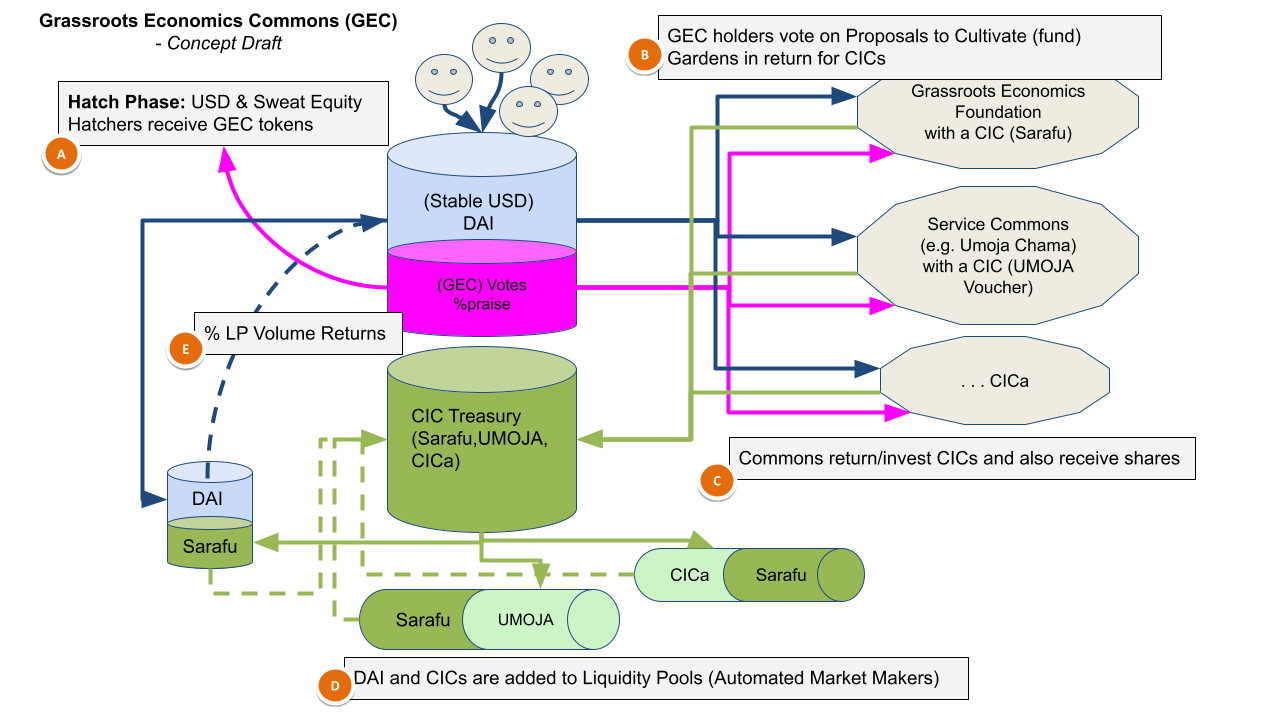
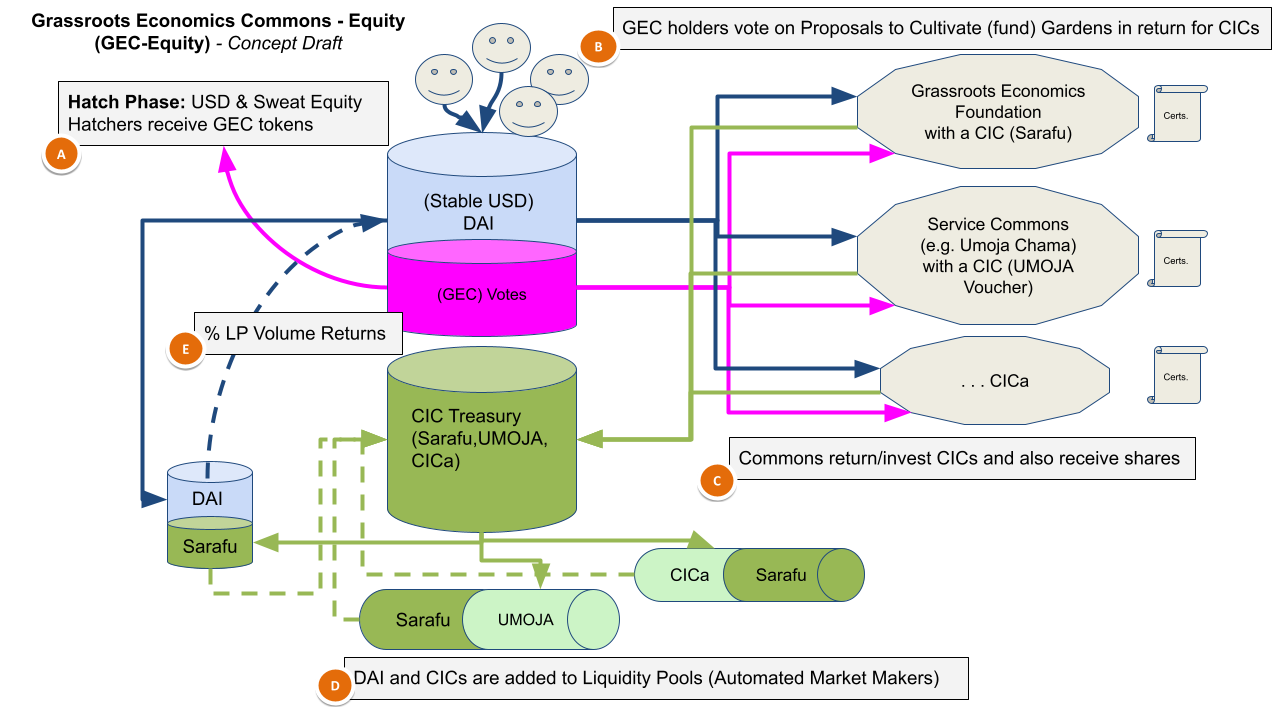
added a diagram on Equity

diff --git a/docs/commons/equity.md b/docs/commons/equity.md
@@ -10,8 +10,9 @@ The purpose of the GEC Equity is to enable supporters to covestment into Economi
 The creation of this instrument wouldn't have been possible without [Commons Stack](https://commonsstack.org/)'s guidance. This document represents a rough draft and synthesis of ideas presented by Commons Stack in support of Grassroots Economics Foundation.
 
 ## Draft Process
+0. Pre-hatch: This the identification of the Community that makes up Grassroots Economics Foundation which will be the inital people making up the Grassroots Economic COmmons Equity members who are invited to vote on hatch (creation) parameters.
 1. Hatch: This initial creation of the GEC Equity Instrument 
-    1. The Grassroots Economic Commons will create a GEC Equity (ERC20 contract herein called GEC) with voting rights on all GEC Equity related issues (such as proposals on contract parameters and the usage of Reserve and Community Pools).
+    1. The Grassroots Economic Commons will create a GEC Equity (ERC20 contract herein called GEC) with voting rights on all GEC Equity related issues (such as proposals on contract parameters and the usage of Reserve and Community Pools). See examples from the [TEC](https://github.com/CommonsBuild/TEC-Hatch-Vote/issues/83).
     2. Supporters will be invited to place DAI (USD stable coin) into the Reserve Pool and receive GEC (becoming members).
     3. GEC will be bonded to this Reserve Pool of DAI and issued to supporters and as well to people who provide in-kind support (past and future). The Bonding will be in the form of a Bonding Curve [TBD] such that the more DAI added to the Reserve Pool the less GEC are minted, and the more GEC that are burnt (redeemed for Reserve Pool DAI) the less DAI is released.
 1. Curate Gardens: Economic Commons used herein are: Social enterprises, organizations, or associations that ratify the GECL v.1 and also offer important services to society and have an Instrument redeemable as payment for those services.
@@ -27,15 +28,28 @@ The creation of this instrument wouldn't have been possible without [Commons Sta
 
 ![Screenshot](/img/GE-commons-DAO.png)
 
+
 *Above: Sketch of the GEC Equity Hatch -> Curate -> Cultivate -> Connect*
 
-1. (A)Initial parameters are chosen and the GEC Equity Instrument contracts are deployed. GEC are allocated for working groups and sweat equity and supporters are invited to add DAI to the Reserve Pool in return for GEC.
-2. (B)Curated Economic Commons are presented as proposals by GEC holders.
-3. (C)GEC holders then vote on the proposals and allocate DAI in order to increase their capacity - in return for Vouchers (CICs) that go in to the CIC Treasury. Note that Economic Commons may also receive GEC and become voting members.
-4. (D)Instruments held in the Community Pool and CIC Treasury can be combined to create liquidity pools that enable people to exchange instruments. This creates an exchange market for CICs.
-5. (E)Fees on exchange between CICs are charged as a percentage of volume moving through the pools and are returned to the Reserve Pool.
+1. (A) Initial parameters are chosen and the GEC Equity Instrument contracts are deployed. GEC are allocated for working groups and sweat equity and supporters are invited to add DAI to the Reserve Pool in return for GEC.
+2. (B) Curated Economic Commons are presented as proposals by GEC holders.
+3. (C) GEC holders then vote on the proposals and allocate DAI in order to increase their capacity - in return for Vouchers (CICs) that go in to the CIC Treasury. Note that Economic Commons may also receive GEC and become voting members.
+4. (D) Instruments held in the Community Pool and CIC Treasury can be combined to create liquidity pools that enable people to exchange instruments. This creates an exchange market for CICs.
+5. (E) Fees on exchange between CICs are charged as a percentage of volume moving through the pools and are returned to the Reserve Pool.
 
 
+![Screenshot](/img/GE-commons-DAO2.png)
+
+*Above: Sketch of the GEC Equity's connection to GEC Vouchers* 
+
+1. (A) Unique CICs (Vouchers) are created by communities that wish to pool their resources together (namley services) and create a sharable access token (CIC). 
+2. (B) CIC holders have a holding fee (demurrage) and can also willing inly contribute to a Community Fund in CICs. Based on contributions the CIC holders are able to vote on proposals for the usage of these funds (n.b. currently this is done by raise of hands in community groups).
+3. (C) One such type of proposal shown here it to contibute the funds toward a liquidity pool co-created by the GE-Equity. This will allow some of the CIC to be exchanged for DAI provided by the GE-Equity.
+4. (D) People contibuting DAI and other sweat equity are allocated voting tokens (GEC).
+5. (E) GEC holders are able to vote on proposals to Cultivate Economic Commons (such as (C)). The result of a passed proposal is the creation of a liquidity pool with DAI from the GEC-Equity Community Fund as well as the CIC of the Economic Commons proposed. This means that anyone can now excahnge DAI for that CIC and as well taht CIC for DAI. 
+6. (F) Fees on exchange between CICs are charged as a percentage of volume moving through the pools and are returned to the GE-Equity Community Fund.
+
+<!--
 ```graphviz dot gec_equity1.svg
 digraph G {
 
@@ -85,11 +99,11 @@ subgraph cluster_g {
  
 }
 ```
-
+-->
 
 ## Community Roles
 
-These are the initial roles recommended by Commons Stack. To contibute to this draft as well as volunteer for community roles please visit our [discord chat server](https://discord.gg/Jkm4YJ8D). 
+These are the initial roles recommended by Commons Stack. To contibute to this draft as well as volunteer for community roles please visit our [discord chat server](https://discord.gg/Jkm4YJ8D). Note that before any roles are assigned - the Community voting on such needs to be established.
 
 1. Rewards: This working group is responsible for launching and maintaining Praise, and any other rewards systems being used. They coordinate quantifiers and quantification periods, as well as custody and distribute rewards to the community. Praise may be given based on member contibutions to the Commons, to well performing Economic Commons, members that curate and submit proposals and so on.
 
